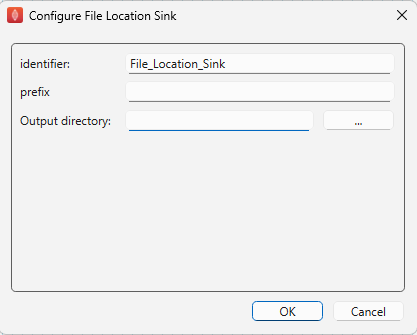
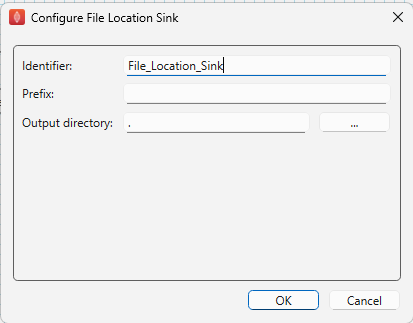
updated docs

diff --git a/docs/index.rst b/docs/index.rst
@@ -18,7 +18,7 @@ This step uses a *http://physiomeproject.org/workflow/1.0/rdf-schema#file_locati
 *http://physiomeproject.org/workflow/1.0/rdf-schema#uses-list-of* to define the location where the file is saved.
 To set the location to save the file to use the *...* button to open a file chooser dialog.
 The *Output directory* input is used to hold the relative path from the workflow to the output file(s) location.
-The optional *prefix* input is added to the file name followed by underscore.
+The optional *Prefix* input is added to the front of the file name.
 
 .. _fig-mcp-file-location-sink-configure-dialog:
 
